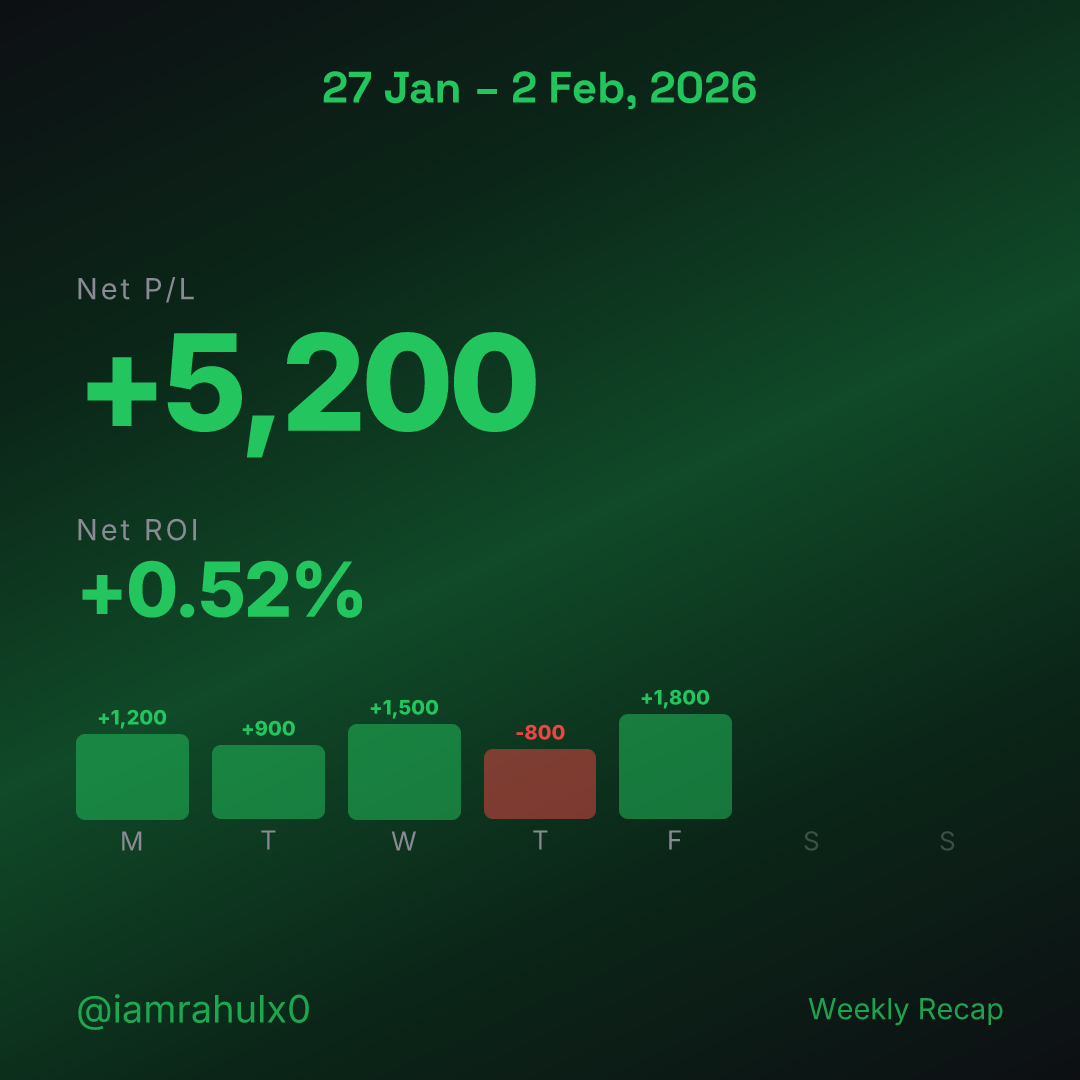
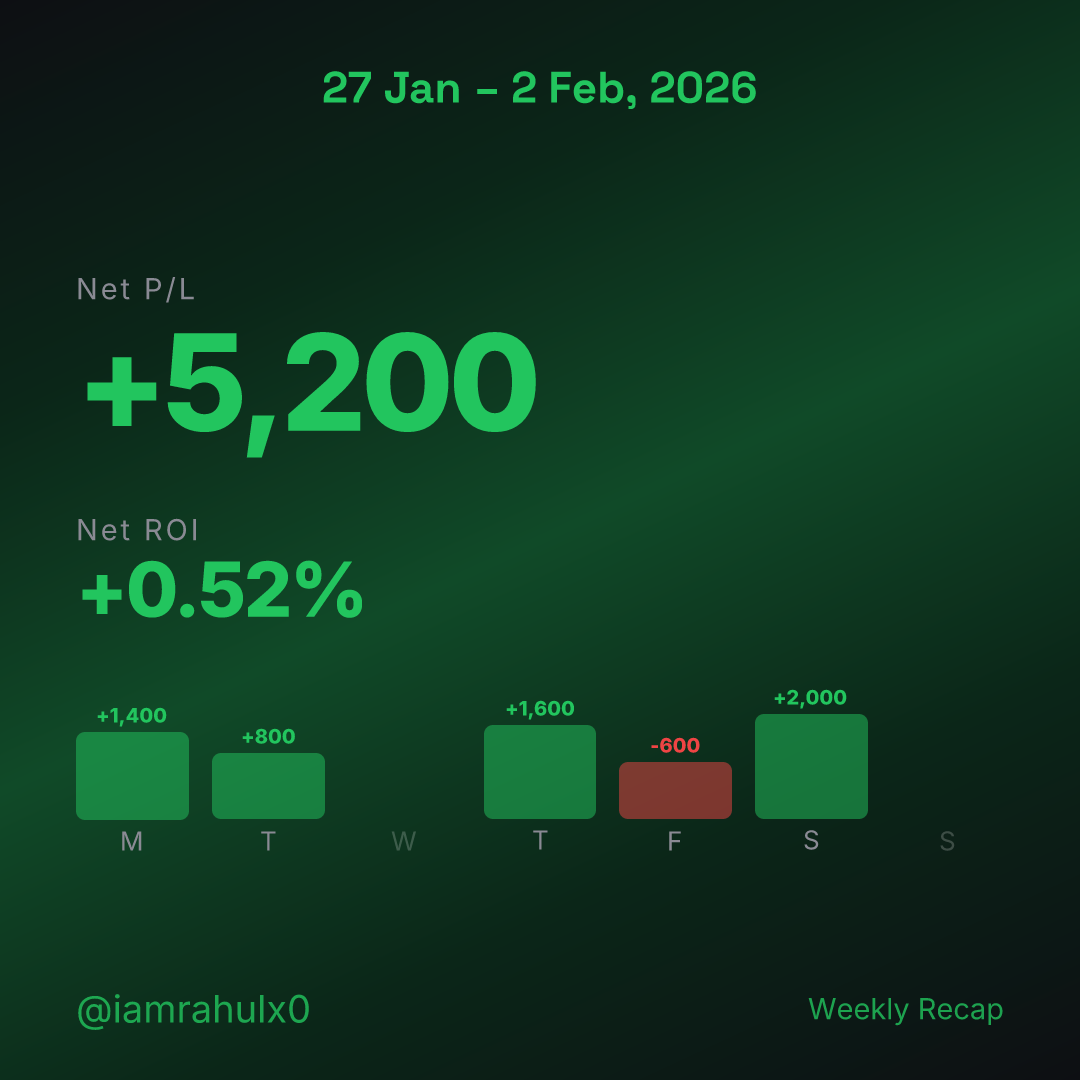
Fix mobile modal UX, center card preview, spread weekly promo days
- Revert dialog to centered (card preview was wrongly a bottom sheet)
- Trade entry modal: comfortable spacing (space-y-6), scrollable body
  with fixed save button always visible, rounded corners on mobile
- Weekly promo cards: trading days spread with gaps (M/T/Th/F/Sat for
  profit, T/W/F/Sat/Sun for loss) instead of consecutive Mon-Fri
- Regenerate all promo images

Changed region(s): [[0.1833, 0.6417, 0.825, 0.7944], [0.0917, 0.6417, 0.1528, 0.6722]]

diff --git a/components/dashboard/trade-entry-modal.tsx b/components/dashboard/trade-entry-modal.tsx
@@ -290,11 +290,11 @@ export function TradeEntryModal({
     <>
       <Dialog open={open} onOpenChange={onOpenChange}>
         <DialogContent
-          className="sm:max-w-md max-h-[85vh] flex flex-col overflow-hidden"
+          className="sm:max-w-md max-h-[90vh] rounded-2xl sm:rounded-lg flex flex-col overflow-hidden p-0"
           onOpenAutoFocus={(e) => e.preventDefault()}
           hideCloseButton={isEdit}
         >
-          <DialogHeader className="text-center shrink-0">
+          <DialogHeader className="text-center shrink-0 px-6 pt-6 pb-0">
             {isEdit ? (
               <div className="flex items-center justify-between">
                 <button
@@ -330,8 +330,8 @@ export function TradeEntryModal({
             onSubmit={handleSubmit}
             className="flex flex-col min-h-0 flex-1 overflow-hidden"
           >
-            <div className="space-y-5 overflow-y-auto min-h-0 flex-1">
-            <div className="space-y-2">
+            <div className="space-y-6 overflow-y-auto min-h-0 flex-1 px-6 py-4">
+            <div className="space-y-2.5">
               <Label htmlFor="trade_date">Date *</Label>
               <DatePicker
                 id="trade_date"
@@ -363,7 +363,7 @@ export function TradeEntryModal({
               )}
             </div>
 
-            <div className="space-y-2">
+            <div className="space-y-2.5">
               <Label htmlFor="num_trades">Number of trades *</Label>
               <Input
                 id="num_trades"
@@ -384,7 +384,7 @@ export function TradeEntryModal({
               />
             </div>
 
-            <div className="space-y-2">
+            <div className="space-y-2.5">
               <Label htmlFor="net_pnl">P&L ({symbol}) *</Label>
               <div className="flex gap-2">
                 <button
@@ -437,7 +437,7 @@ export function TradeEntryModal({
               </p>
             </div>
 
-            <div className="space-y-2">
+            <div className="space-y-2.5">
               <Label htmlFor="charges">Charges & taxes ({symbol})</Label>
               <Input
                 id="charges"
@@ -469,7 +469,7 @@ export function TradeEntryModal({
               )}
             </div>
 
-            <div className="space-y-2">
+            <div className="space-y-2.5">
               <div className="flex items-center justify-between">
                 <Label htmlFor="capital_deployed" className="mb-0">
                   Capital ({symbol}) deployed for ROI
@@ -524,7 +524,7 @@ export function TradeEntryModal({
             </div>
             </div>
 
-            <DialogFooter className="shrink-0 pt-4 border-t border-border/30 mt-2">
+            <div className="shrink-0 border-t border-border/30 px-6 py-4">
               <button
                 type="submit"
                 disabled={isLoading || isFutureDate || isDuplicateDate}
@@ -534,7 +534,7 @@ export function TradeEntryModal({
                   {isLoading ? "Saving…" : isEdit ? "Update" : "Save"}
                 </span>
               </button>
-            </DialogFooter>
+            </div>
           </form>
         </DialogContent>
       </Dialog>

diff --git a/components/ui/dialog.tsx b/components/ui/dialog.tsx
@@ -40,20 +40,11 @@ const DialogContent = React.forwardRef<
     <DialogPrimitive.Content
       ref={ref}
       className={cn(
-        "fixed z-50 grid w-full gap-4 border bg-background shadow-lg duration-200",
-        "data-[state=open]:animate-in data-[state=closed]:animate-out",
-        "data-[state=closed]:fade-out-0 data-[state=open]:fade-in-0",
-        "inset-x-0 bottom-0 rounded-t-2xl p-5",
-        "data-[state=closed]:slide-out-to-bottom data-[state=open]:slide-in-from-bottom",
-        "sm:inset-auto sm:bottom-auto sm:left-[50%] sm:top-[50%] sm:max-w-lg sm:translate-x-[-50%] sm:translate-y-[-50%] sm:rounded-lg sm:p-6",
-        "sm:data-[state=closed]:zoom-out-95 sm:data-[state=open]:zoom-in-95",
-        "sm:data-[state=closed]:slide-out-to-left-1/2 sm:data-[state=closed]:slide-out-to-top-[48%]",
-        "sm:data-[state=open]:slide-in-from-left-1/2 sm:data-[state=open]:slide-in-from-top-[48%]",
+        "fixed left-[50%] top-[50%] z-50 grid w-full max-w-lg translate-x-[-50%] translate-y-[-50%] gap-4 border bg-background p-6 shadow-lg duration-200 data-[state=open]:animate-in data-[state=closed]:animate-out data-[state=closed]:fade-out-0 data-[state=open]:fade-in-0 data-[state=closed]:zoom-out-95 data-[state=open]:zoom-in-95 data-[state=closed]:slide-out-to-left-1/2 data-[state=closed]:slide-out-to-top-[48%] data-[state=open]:slide-in-from-left-1/2 data-[state=open]:slide-in-from-top-[48%] sm:rounded-lg",
         className
       )}
       {...props}
     >
-      <div className="mx-auto h-1 w-10 shrink-0 rounded-full bg-muted sm:hidden" />
       {children}
       {!hideCloseButton && (
         <DialogPrimitive.Close className="absolute right-4 top-4 rounded-sm opacity-70 ring-offset-background transition-opacity hover:opacity-100 focus:outline-none focus:ring-2 focus:ring-ring focus:ring-offset-2 disabled:pointer-events-none data-[state=open]:bg-accent data-[state=open]:text-muted-foreground">
